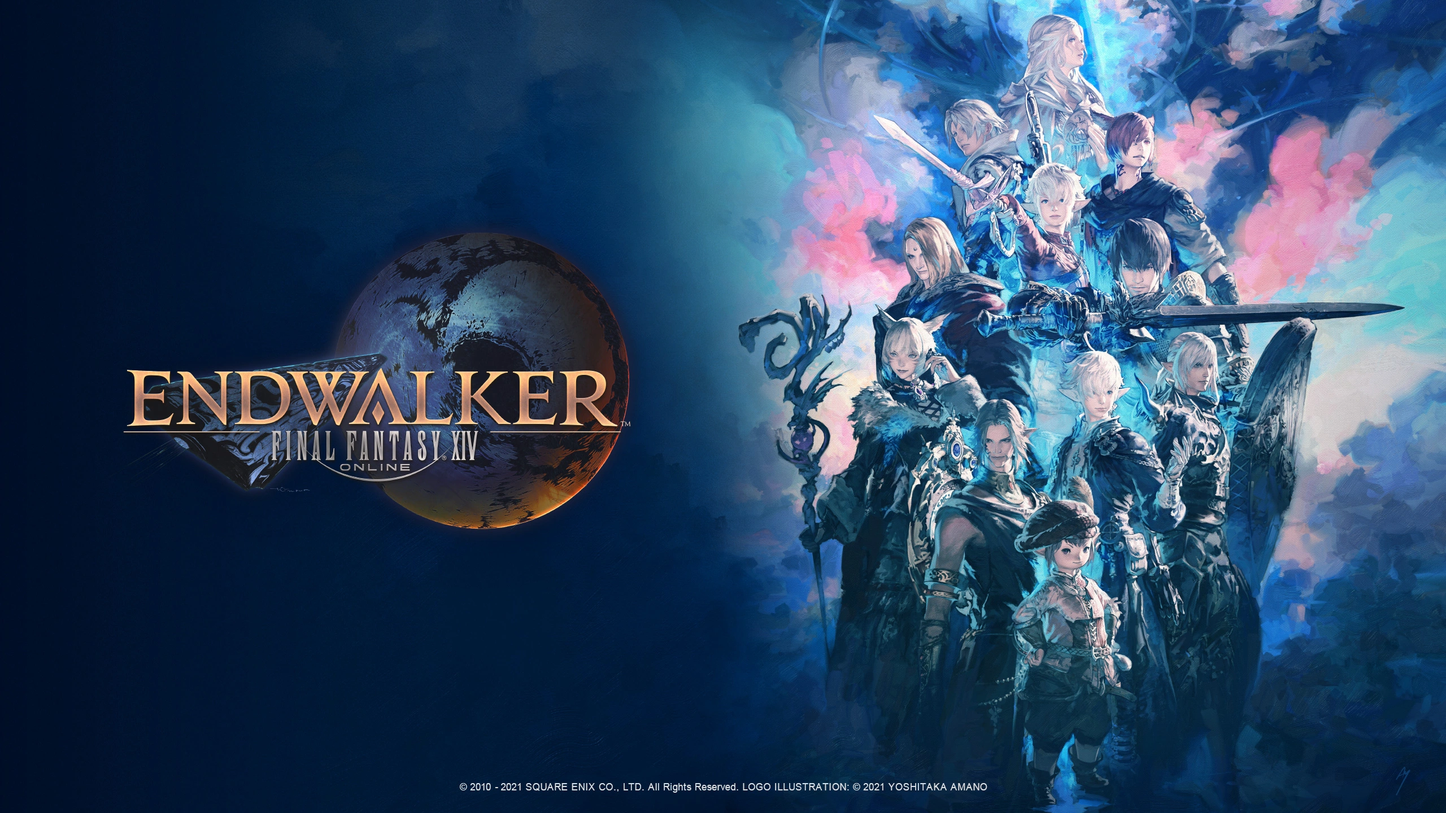
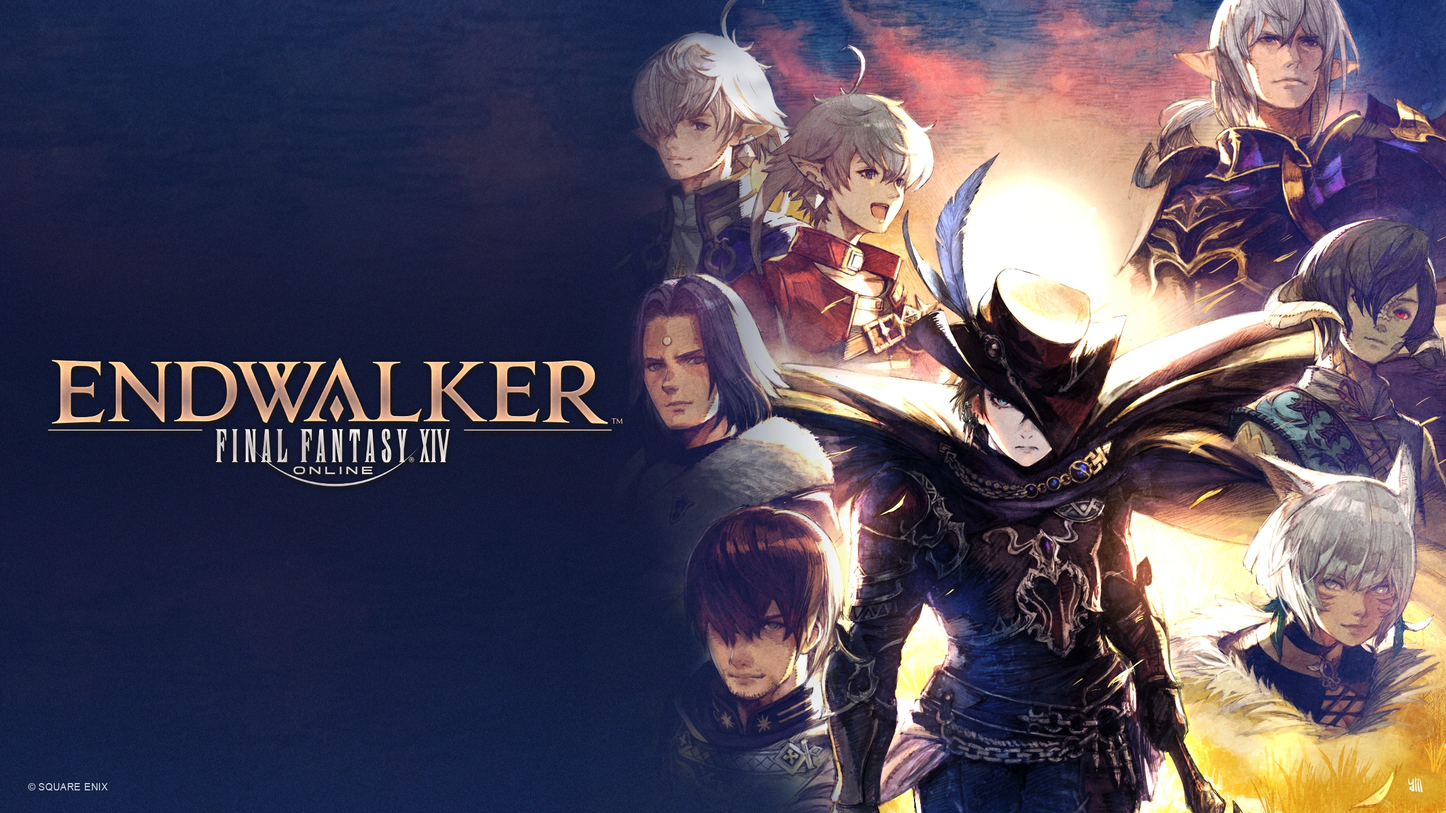
update background EW & z-index fix

diff --git a/src/routes/+page.svelte b/src/routes/+page.svelte
@@ -409,7 +409,7 @@
 <!-- Action Bar -->
 <div
   id="action-bar"
-  class="fixed md:absolute top-1 sm:top-2 mt-2 bg-white rounded-lg p-1 sm:p-2 shadow flex items-center justify-between"
+  class="fixed md:absolute top-1 sm:top-2 mt-2 bg-white rounded-lg p-1 sm:p-2 shadow flex items-center justify-between z-50"
 >
   <!-- Toggle Button -->
   <div class="flex items-center">
